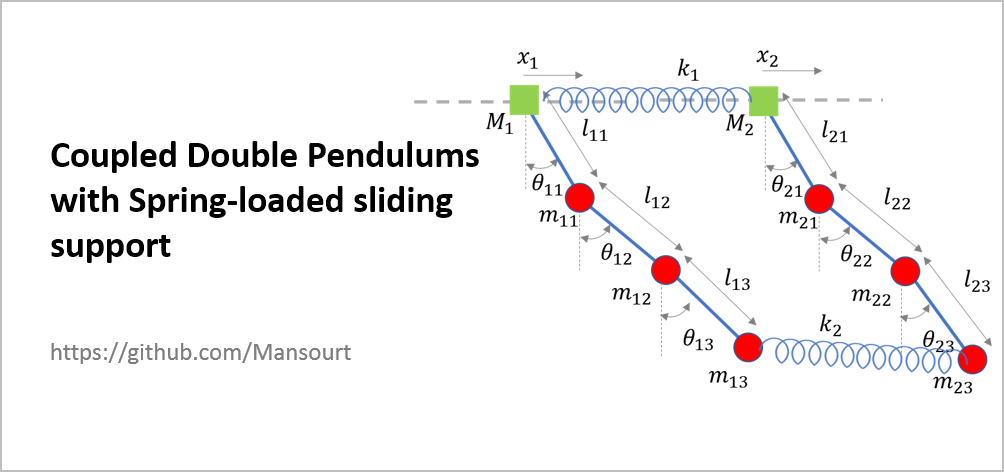
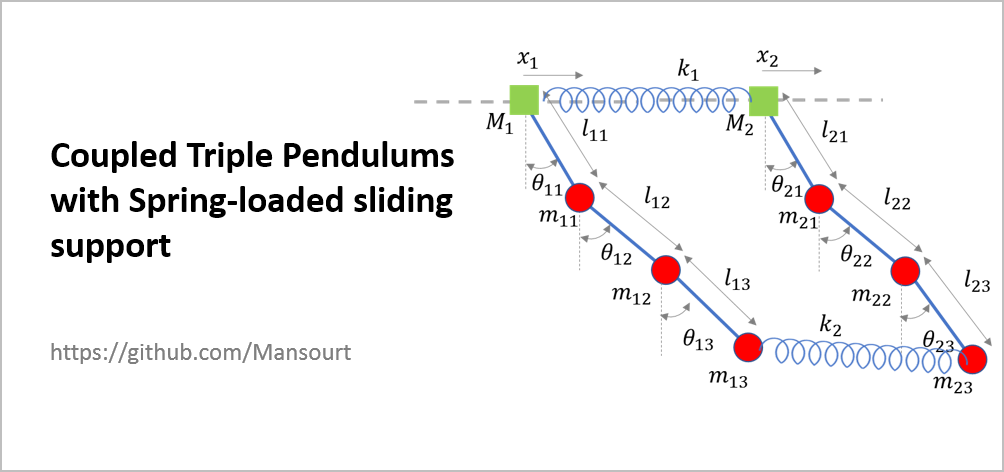
Example 8 added

Changed region(s): [[0.1853, 0.2966, 0.494, 0.3559]]

diff --git a/README.md b/README.md
@@ -463,7 +463,7 @@ Slider Position, Pendulum Anlges:
 </table>
 
 
-## Example 8: Coupled Double Pendulums with Spring-loaded sliding support 
+## Example 8: Coupled Triple Pendulums with Spring-loaded sliding support 
 
 **Problem Definition:**
 <table style="width:100%">
@@ -477,10 +477,10 @@ Slider Position, Pendulum Anlges:
 </table>
 
 
-Double Pendulum #1 Anlges:
+Triple Pendulum #1 Position and Anlges:
 <table style="width:100%">
    <tr>
-        <th>Double Pendulum #1 Angles:</th>
+        <th>Triple Pendulum #1 Position and Anlges:</th>
 		<th>Animated Response:</th>
   </tr>
   <tr>
